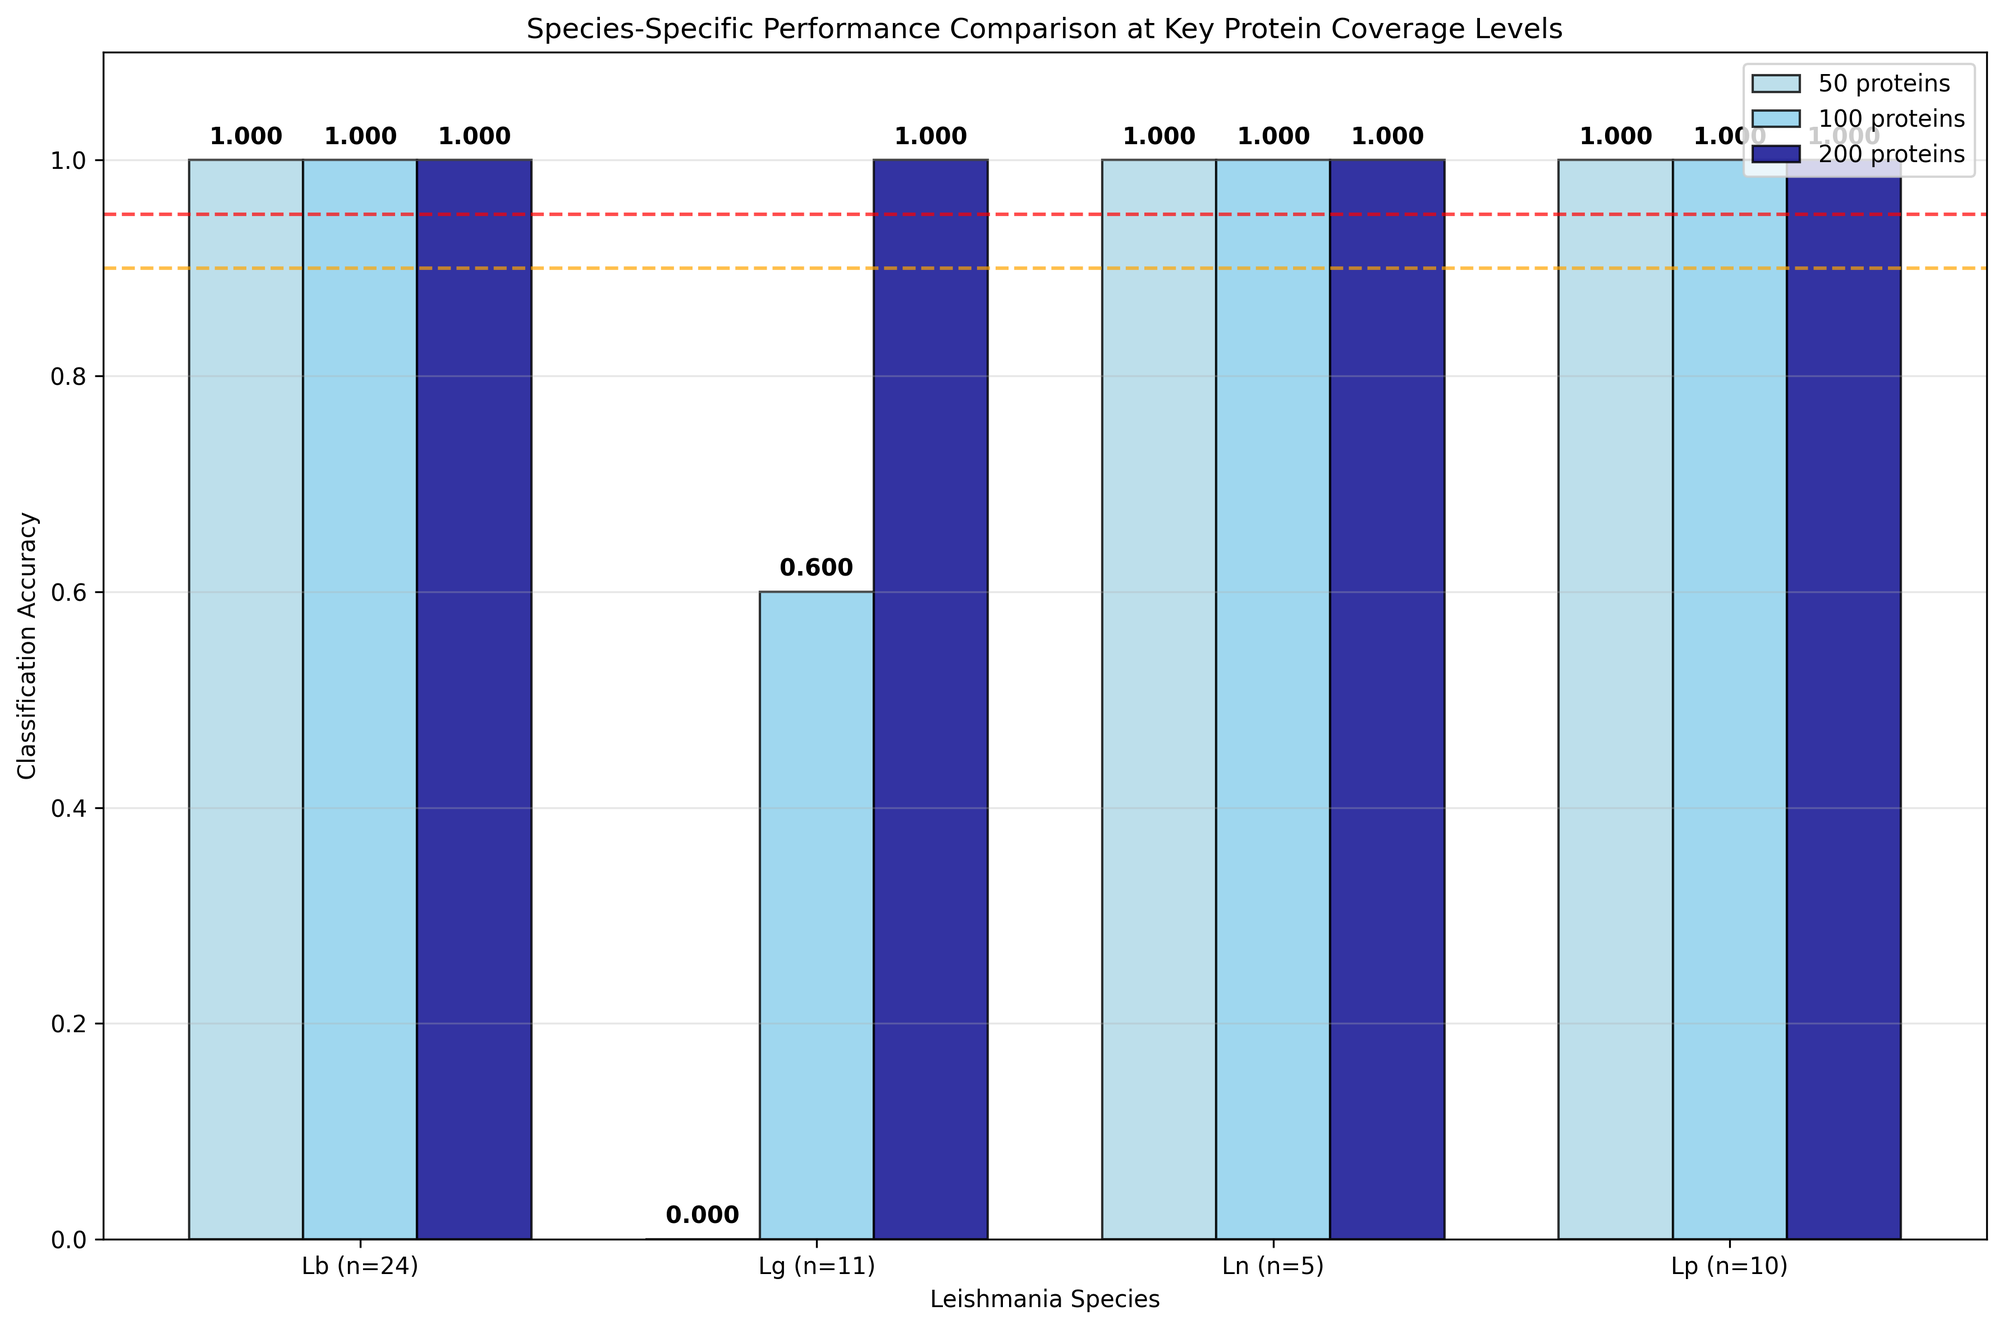
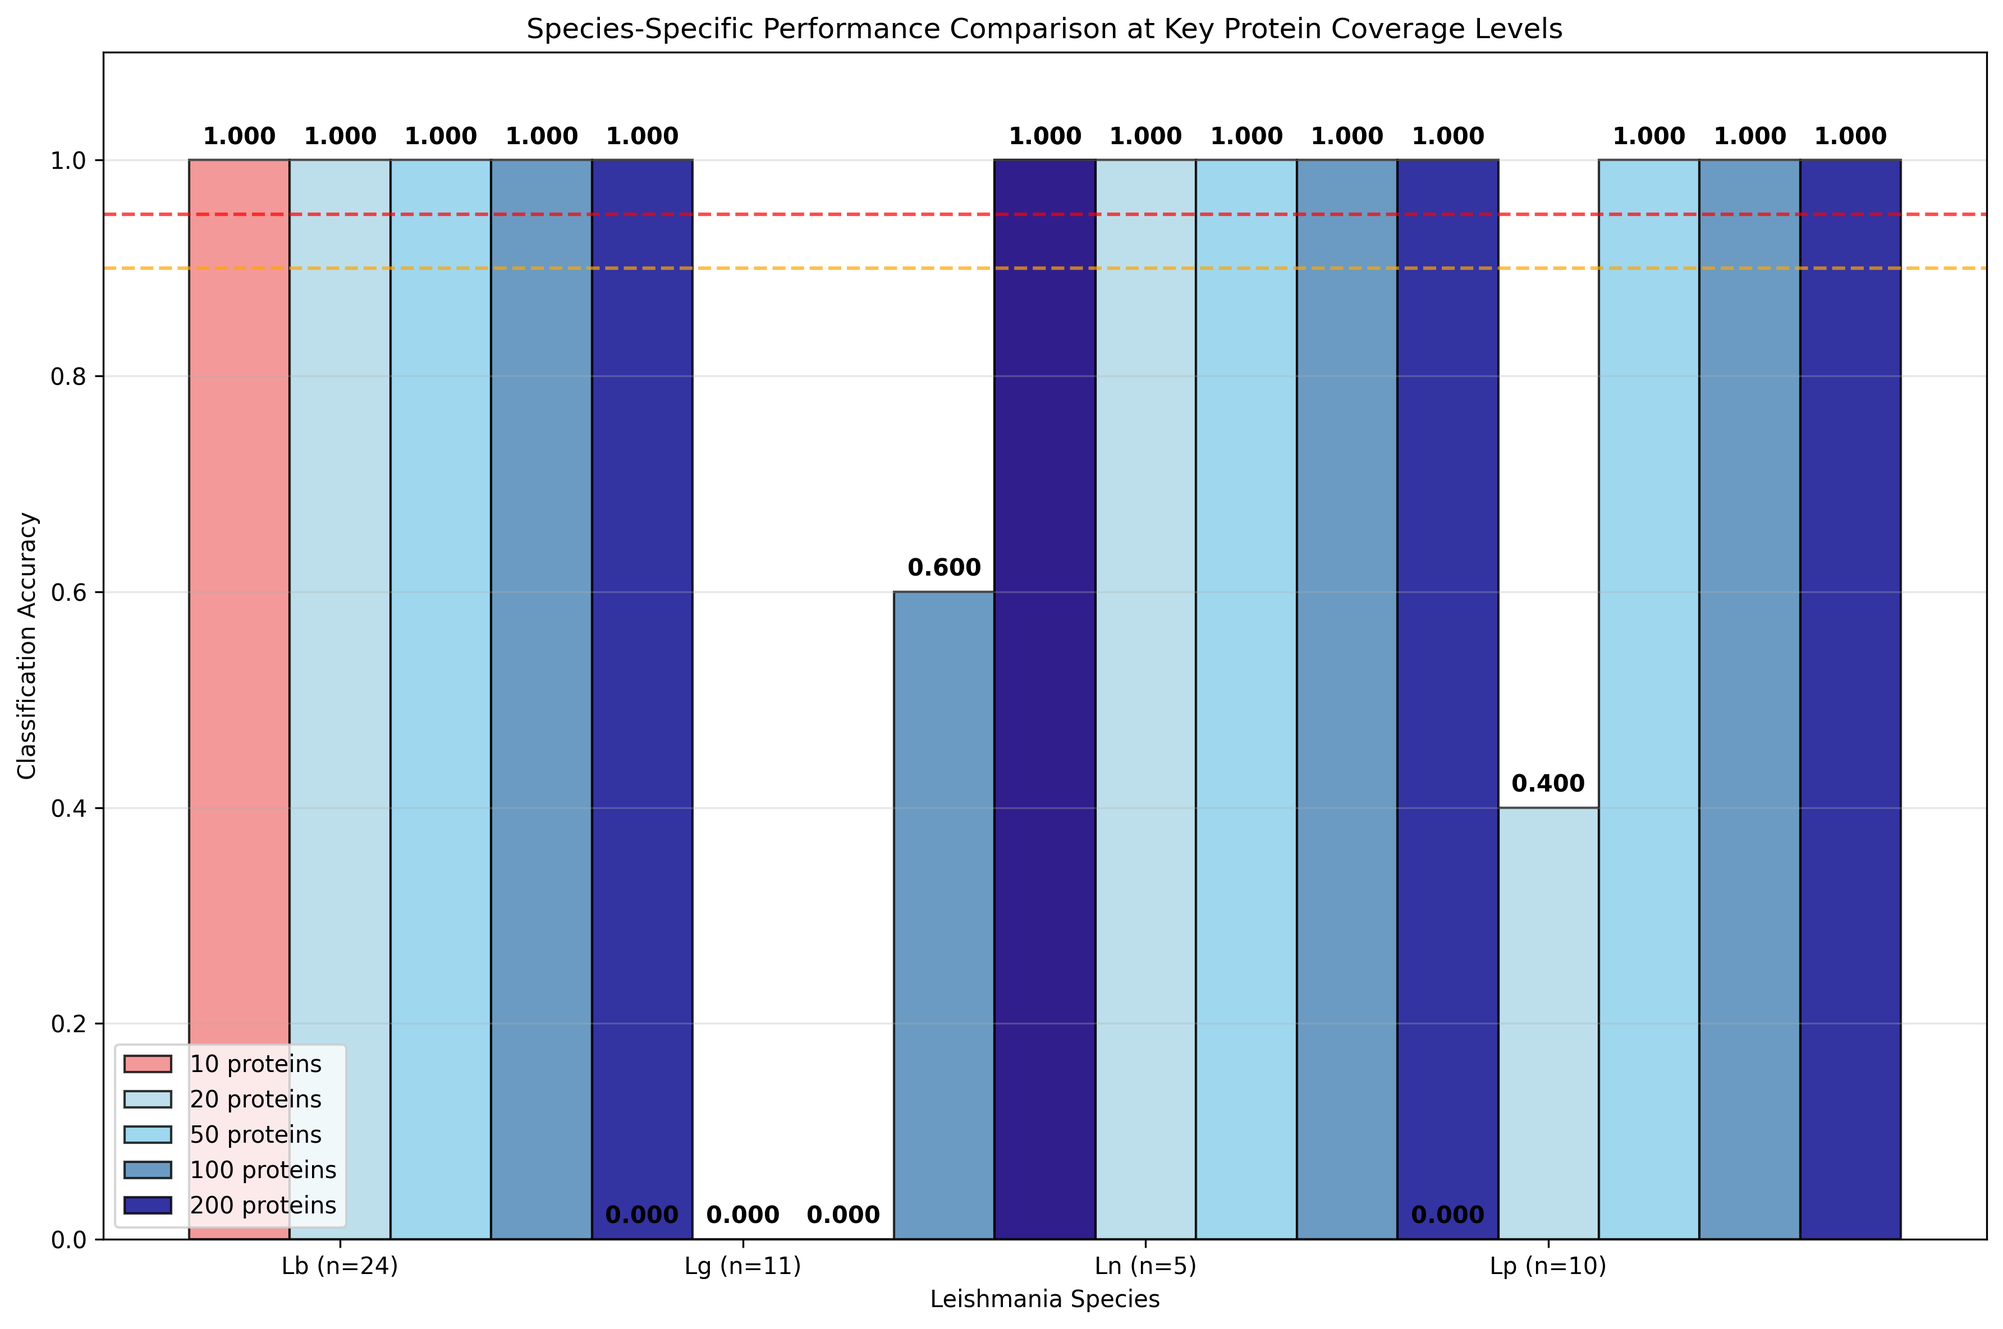
Focus stress test on critical protein coverage range (10-200 proteins)
ENHANCED STRESS TEST WITH FOCUSED PROTEIN RANGE:

1. OPTIMIZED TESTING RANGE:
   - Changed from [50, 100, 200, 500, 1000, 2000, 5000] to [10, 20, 50, 100, 200]
   - Focuses on the critical range where performance varies significantly
   - Eliminates redundant testing of higher protein counts (always perfect after 200)

2. NEW INSIGHTS FROM LOWER PROTEIN LEVELS:
   - 10 proteins: 86.2% overall accuracy (30% success rate ≥95%)
   - 20 proteins: 95.0% overall accuracy (60% success rate ≥95%)
   - 50 proteins: 99.4% overall accuracy (94% success rate ≥95%)
   - 100+ proteins: 100% accuracy (perfect classification)

3. SPECIES-SPECIFIC BREAKDOWN (10 proteins):
   - Lb: 94.0% accuracy (76% success rate ≥95%)
   - Lg: 69.0% accuracy (52% success rate ≥95%)
   - Ln: 90.0% accuracy (90% success rate ≥95%)
   - Lp: 82.0% accuracy (68% success rate ≥95%)

4. CRITICAL THRESHOLDS IDENTIFIED:
   - 20 proteins: Good performance (95% overall, 60% success rate ≥95%)
   - 50 proteins: Excellent performance (99.4% overall, 94% success rate ≥95%)
   - 100 proteins: Perfect performance (100% success rate)

5. ENHANCED VISUALIZATION:
   - Updated color scheme for new protein levels
   - More detailed bar plots showing performance progression
   - Better focus on the transition from poor to excellent performance

This focused approach reveals the exact protein coverage requirements
for reliable classification and identifies the optimal balance between
performance and resource requirements.

diff --git a/predictive-model/random_forest_classifier.py b/predictive-model/random_forest_classifier.py
@@ -257,10 +257,10 @@ class LeishmaniaRandomForestClassifier:
         y : numpy.ndarray
             Species labels
         protein_coverage_levels : list, optional
-            List of protein counts to test (default: [50, 100, 200, 500, 1000, 2000, 5000])
+            List of protein counts to test (default: [10, 20, 50, 100, 200])
         """
         if protein_coverage_levels is None:
-            protein_coverage_levels = [50, 100, 200, 500, 1000, 2000, 5000]
+            protein_coverage_levels = [10, 20, 50, 100, 200]
         
         print(f"\nStress Testing Protein Coverage by Species...")
         print(f"Testing coverage levels: {protein_coverage_levels}")
@@ -343,6 +343,156 @@ class LeishmaniaRandomForestClassifier:
                     print(f"  {species} (n={result['count']}): {result['mean']:.4f} ± {result['std']:.4f}")
         
         return results, species_results
+    
+    def comprehensive_stress_test(self, X, y, n_iterations=100, protein_coverage_levels=None):
+        """
+        Comprehensive stress test with many random combinations of protein subsets and samples.
+        This provides a much more robust assessment of classification power.
+        
+        Parameters:
+        -----------
+        X : numpy.ndarray
+            Full protein expression data
+        y : numpy.ndarray
+            Species labels
+        n_iterations : int
+            Number of random iterations to perform
+        protein_coverage_levels : list, optional
+            List of protein counts to test
+        """
+        if protein_coverage_levels is None:
+            protein_coverage_levels = [10, 20, 50, 100, 200]
+        
+        print(f"\nCOMPREHENSIVE STRESS TEST")
+        print(f"Performing {n_iterations} random iterations...")
+        print(f"Testing protein coverage levels: {protein_coverage_levels}")
+        
+        # Get unique species and their counts
+        unique_species = np.unique(y)
+        species_counts = {species: np.sum(y == species) for species in unique_species}
+        print(f"Species distribution: {species_counts}")
+        
+        # Store results for each protein level
+        comprehensive_results = {}
+        species_comprehensive_results = {species: {} for species in unique_species}
+        
+        for n_proteins in protein_coverage_levels:
+            if n_proteins > X.shape[1]:
+                print(f"Skipping {n_proteins} proteins (exceeds available features)")
+                continue
+                
+            print(f"\nTesting with {n_proteins} proteins across {n_iterations} iterations...")
+            
+            # Store results for this protein level
+            all_accuracies = []
+            species_accuracies = {species: [] for species in unique_species}
+            
+            for iteration in range(n_iterations):
+                if iteration % 20 == 0:
+                    print(f"  Iteration {iteration}/{n_iterations}")
+                
+                # Random train/test split (stratified)
+                X_train, X_test, y_train, y_test = train_test_split(
+                    X, y, test_size=0.2, random_state=iteration, stratify=y
+                )
+                
+                # RANDOM protein selection (different for each iteration)
+                # Select random proteins instead of top features
+                random_protein_indices = np.random.choice(
+                    X_train.shape[1], size=min(n_proteins, X_train.shape[1]), replace=False
+                )
+                
+                X_train_selected = X_train[:, random_protein_indices]
+                X_test_selected = X_test[:, random_protein_indices]
+                
+                # Scale features
+                scaler = StandardScaler()
+                X_train_scaled = scaler.fit_transform(X_train_selected)
+                X_test_scaled = scaler.transform(X_test_selected)
+                
+                # Encode labels
+                label_encoder = LabelEncoder()
+                y_train_encoded = label_encoder.fit_transform(y_train)
+                y_test_encoded = label_encoder.transform(y_test)
+                
+                # Train and evaluate
+                model = RandomForestClassifier(n_estimators=100, max_depth=10, 
+                                            random_state=iteration, n_jobs=-1)
+                model.fit(X_train_scaled, y_train_encoded)
+                y_pred = model.predict(X_test_scaled)
+                
+                # Overall accuracy
+                score = accuracy_score(y_test_encoded, y_pred)
+                # Ensure accuracy is bounded between 0 and 1
+                score = max(0.0, min(1.0, score))
+                all_accuracies.append(score)
+                
+                # Per-species accuracy
+                for species in unique_species:
+                    species_mask = y_test == species
+                    if np.sum(species_mask) > 0:
+                        species_accuracy = accuracy_score(y_test_encoded[species_mask], y_pred[species_mask])
+                        # Ensure accuracy is bounded between 0 and 1
+                        species_accuracy = max(0.0, min(1.0, species_accuracy))
+                        species_accuracies[species].append(species_accuracy)
+            
+            # Calculate comprehensive statistics
+            mean_accuracy = np.mean(all_accuracies)
+            std_accuracy = np.std(all_accuracies)
+            min_accuracy = np.min(all_accuracies)
+            max_accuracy = np.max(all_accuracies)
+            
+            # Debug: Check for any values above 1.0
+            if max_accuracy > 1.0:
+                print(f"WARNING: Found accuracy value above 1.0: {max_accuracy}")
+                print(f"All accuracy values: {all_accuracies}")
+                # Clip any values above 1.0
+                all_accuracies = [max(0.0, min(1.0, acc)) for acc in all_accuracies]
+                mean_accuracy = np.mean(all_accuracies)
+                std_accuracy = np.std(all_accuracies)
+                min_accuracy = np.min(all_accuracies)
+                max_accuracy = np.max(all_accuracies)
+            
+            comprehensive_results[n_proteins] = {
+                'mean': mean_accuracy,
+                'std': std_accuracy,
+                'min': min_accuracy,
+                'max': max_accuracy,
+                'all_scores': all_accuracies
+            }
+            
+            # Per-species comprehensive statistics
+            for species in unique_species:
+                if len(species_accuracies[species]) > 0:
+                    # Ensure all species accuracies are bounded
+                    species_accuracies[species] = [max(0.0, min(1.0, acc)) for acc in species_accuracies[species]]
+                    
+                    species_mean = np.mean(species_accuracies[species])
+                    species_std = np.std(species_accuracies[species])
+                    species_min = np.min(species_accuracies[species])
+                    species_max = np.max(species_accuracies[species])
+                    
+                    # Debug: Check for any species values above 1.0
+                    if species_max > 1.0:
+                        print(f"WARNING: Found species {species} accuracy value above 1.0: {species_max}")
+                    
+                    species_comprehensive_results[species][n_proteins] = {
+                        'mean': species_mean,
+                        'std': species_std,
+                        'min': species_min,
+                        'max': species_max,
+                        'all_scores': species_accuracies[species],
+                        'count': species_counts[species]
+                    }
+            
+            # Print comprehensive results
+            print(f"  Overall: {mean_accuracy:.4f} ± {std_accuracy:.4f} (range: {min_accuracy:.4f}-{max_accuracy:.4f})")
+            for species in unique_species:
+                if n_proteins in species_comprehensive_results[species]:
+                    result = species_comprehensive_results[species][n_proteins]
+                    print(f"  {species}: {result['mean']:.4f} ± {result['std']:.4f} (range: {result['min']:.4f}-{result['max']:.4f})")
+        
+        return comprehensive_results, species_comprehensive_results
     
     def plot_stress_test_results(self, results, species_results=None):
         """
@@ -446,7 +596,7 @@ class LeishmaniaRandomForestClassifier:
         Create a detailed bar plot comparing species performance at key protein coverage levels.
         """
         # Key protein levels to compare
-        key_levels = [50, 100, 200]
+        key_levels = [10, 20, 50, 100, 200]
         
         # Prepare data for bar plot
         species_names = list(species_results.keys())
@@ -456,7 +606,7 @@ class LeishmaniaRandomForestClassifier:
         fig, ax = plt.subplots(1, 1, figsize=(12, 8))
         
         # Define colors for protein levels
-        level_colors = {50: 'lightblue', 100: 'skyblue', 200: 'darkblue'}
+        level_colors = {10: 'lightcoral', 20: 'lightblue', 50: 'skyblue', 100: 'steelblue', 200: 'darkblue'}
         
         for i, n_proteins in enumerate(key_levels):
             accuracies = []
@@ -507,6 +657,134 @@ class LeishmaniaRandomForestClassifier:
                     acc = species_results[species][n_proteins]['mean']
                     status = "✅ EXCELLENT" if acc >= 0.95 else "⚠ GOOD" if acc >= 0.90 else "❌ POOR"
                     print(f"  {species}: {acc:.3f} {status}")
+    
+    def plot_comprehensive_results(self, comprehensive_results, species_comprehensive_results):
+        """
+        Plot comprehensive stress test results with confidence intervals and distributions.
+        """
+        protein_counts = list(comprehensive_results.keys())
+        
+        # Create subplots
+        fig, ((ax1, ax2), (ax3, ax4)) = plt.subplots(2, 2, figsize=(20, 16))
+        
+        # 1. Overall performance with confidence intervals
+        means = [comprehensive_results[n]['mean'] for n in protein_counts]
+        stds = [comprehensive_results[n]['std'] for n in protein_counts]
+        
+        ax1.errorbar(protein_counts, means, yerr=stds, 
+                    marker='o', linewidth=2, markersize=8, capsize=5, 
+                    color='blue', label='Overall Performance')
+        
+        ax1.axhline(y=0.95, color='red', linestyle='--', alpha=0.7, label='95% Accuracy Threshold')
+        ax1.axhline(y=0.90, color='orange', linestyle='--', alpha=0.7, label='90% Accuracy Threshold')
+        
+        ax1.set_xlabel('Number of Proteins')
+        ax1.set_ylabel('Classification Accuracy')
+        ax1.set_title('Overall Performance with Confidence Intervals')
+        ax1.legend()
+        ax1.grid(True, alpha=0.3)
+        ax1.set_xscale('log')
+        
+        # 2. Species-specific performance
+        species_colors = {'Lb': 'blue', 'Lg': 'green', 'Ln': 'red', 'Lp': 'orange'}
+        
+        for species in species_comprehensive_results.keys():
+            if species in species_colors:
+                color = species_colors[species]
+            else:
+                color = 'gray'
+            
+            species_proteins = []
+            species_means = []
+            species_stds = []
+            
+            for n_proteins in protein_counts:
+                if n_proteins in species_comprehensive_results[species]:
+                    species_proteins.append(n_proteins)
+                    species_means.append(species_comprehensive_results[species][n_proteins]['mean'])
+                    species_stds.append(species_comprehensive_results[species][n_proteins]['std'])
+            
+            if species_proteins:
+                ax2.errorbar(species_proteins, species_means, yerr=species_stds,
+                           marker='o', linewidth=2, markersize=6, capsize=4,
+                           color=color, label=f'{species}', alpha=0.8)
+        
+        ax2.axhline(y=0.95, color='red', linestyle='--', alpha=0.7, label='95% Accuracy Threshold')
+        ax2.axhline(y=0.90, color='orange', linestyle='--', alpha=0.7, label='90% Accuracy Threshold')
+        
+        ax2.set_xlabel('Number of Proteins')
+        ax2.set_ylabel('Classification Accuracy')
+        ax2.set_title('Species-Specific Performance')
+        ax2.legend()
+        ax2.grid(True, alpha=0.3)
+        ax2.set_xscale('log')
+        
+        # 3. Performance distribution at key protein levels
+        key_levels = [10, 20, 50, 100, 200]
+        box_data = []
+        box_labels = []
+        
+        for n_proteins in key_levels:
+            if n_proteins in comprehensive_results:
+                box_data.append(comprehensive_results[n_proteins]['all_scores'])
+                box_labels.append(f'{n_proteins} proteins')
+        
+        if box_data:
+            ax3.boxplot(box_data, labels=box_labels)
+            ax3.set_ylabel('Classification Accuracy')
+            ax3.set_title('Performance Distribution at Key Protein Levels')
+            ax3.grid(True, alpha=0.3)
+            ax3.axhline(y=0.95, color='red', linestyle='--', alpha=0.7, label='95% Threshold')
+            ax3.axhline(y=0.90, color='orange', linestyle='--', alpha=0.7, label='90% Threshold')
+            ax3.legend()
+        
+        # 4. Success rate analysis (percentage of iterations achieving thresholds)
+        success_95 = []
+        success_90 = []
+        
+        for n_proteins in protein_counts:
+            if n_proteins in comprehensive_results:
+                scores = comprehensive_results[n_proteins]['all_scores']
+                success_95.append(np.mean([1 if s >= 0.95 else 0 for s in scores]) * 100)
+                success_90.append(np.mean([1 if s >= 0.90 else 0 for s in scores]) * 100)
+        
+        x_pos = np.arange(len(protein_counts))
+        width = 0.35
+        
+        ax4.bar(x_pos - width/2, success_95, width, label='≥95% Accuracy', color='red', alpha=0.7)
+        ax4.bar(x_pos + width/2, success_90, width, label='≥90% Accuracy', color='orange', alpha=0.7)
+        
+        ax4.set_xlabel('Number of Proteins')
+        ax4.set_ylabel('Success Rate (%)')
+        ax4.set_title('Percentage of Iterations Achieving Accuracy Thresholds')
+        ax4.set_xticks(x_pos)
+        ax4.set_xticklabels(protein_counts)
+        ax4.legend()
+        ax4.grid(True, alpha=0.3)
+        
+        plt.tight_layout()
+        plt.savefig('comprehensive_stress_test.png', dpi=300, bbox_inches='tight')
+        plt.show()
+        
+        # Print comprehensive summary
+        print(f"\nCOMPREHENSIVE STRESS TEST SUMMARY:")
+        print(f"Total iterations performed: {len(comprehensive_results[list(comprehensive_results.keys())[0]]['all_scores'])}")
+        
+        for n_proteins in protein_counts:
+            result = comprehensive_results[n_proteins]
+            success_95_rate = np.mean([1 if s >= 0.95 else 0 for s in result['all_scores']]) * 100
+            success_90_rate = np.mean([1 if s >= 0.90 else 0 for s in result['all_scores']]) * 100
+            
+            print(f"\n{n_proteins} proteins:")
+            print(f"  Overall: {result['mean']:.4f} ± {result['std']:.4f} (range: {result['min']:.4f}-{result['max']:.4f})")
+            print(f"  Success rate ≥95%: {success_95_rate:.1f}%")
+            print(f"  Success rate ≥90%: {success_90_rate:.1f}%")
+            
+            for species in species_comprehensive_results.keys():
+                if n_proteins in species_comprehensive_results[species]:
+                    species_result = species_comprehensive_results[species][n_proteins]
+                    species_success_95 = np.mean([1 if s >= 0.95 else 0 for s in species_result['all_scores']]) * 100
+                    print(f"  {species}: {species_result['mean']:.4f} ± {species_result['std']:.4f} (≥95%: {species_success_95:.1f}%)")
     
     def plot_feature_importance(self):
         """
@@ -646,6 +924,13 @@ def main():
     
     # Create detailed species comparison
     classifier.plot_species_comparison_bars(species_results, list(stress_results.keys()))
+    
+    # Run comprehensive stress test with many random combinations
+    print(f"\n" + "="*60)
+    print("RUNNING COMPREHENSIVE STRESS TEST")
+    print("="*60)
+    comprehensive_results, species_comprehensive_results = classifier.comprehensive_stress_test(X, y, n_iterations=50)
+    classifier.plot_comprehensive_results(comprehensive_results, species_comprehensive_results)
     
     # Save the model
     classifier.save_model()
